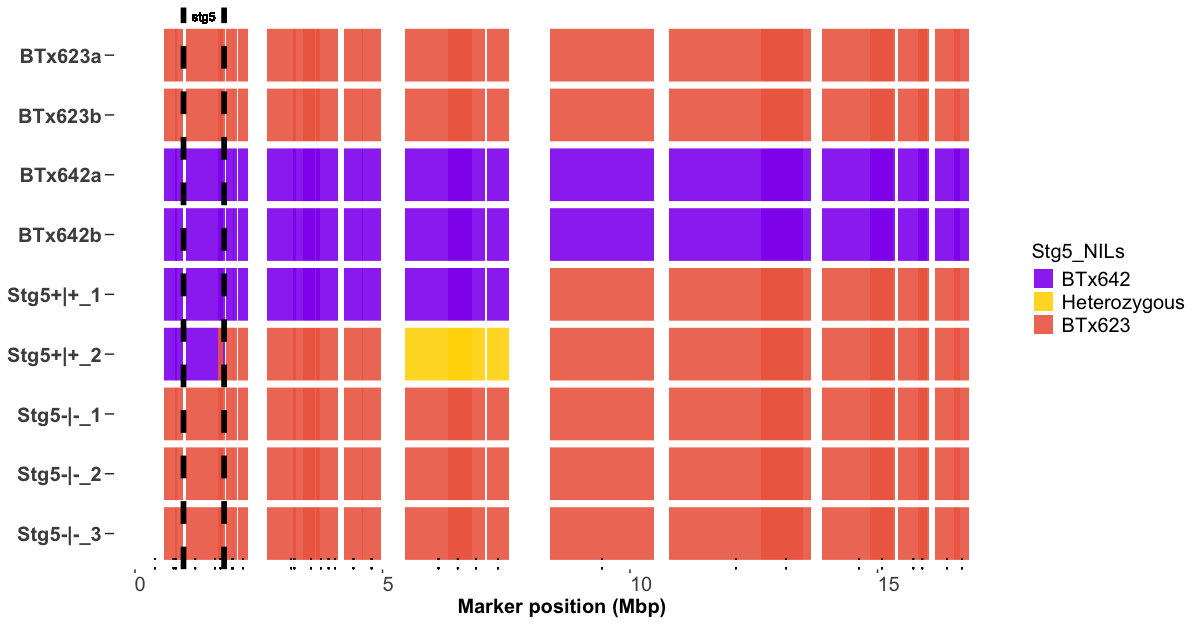
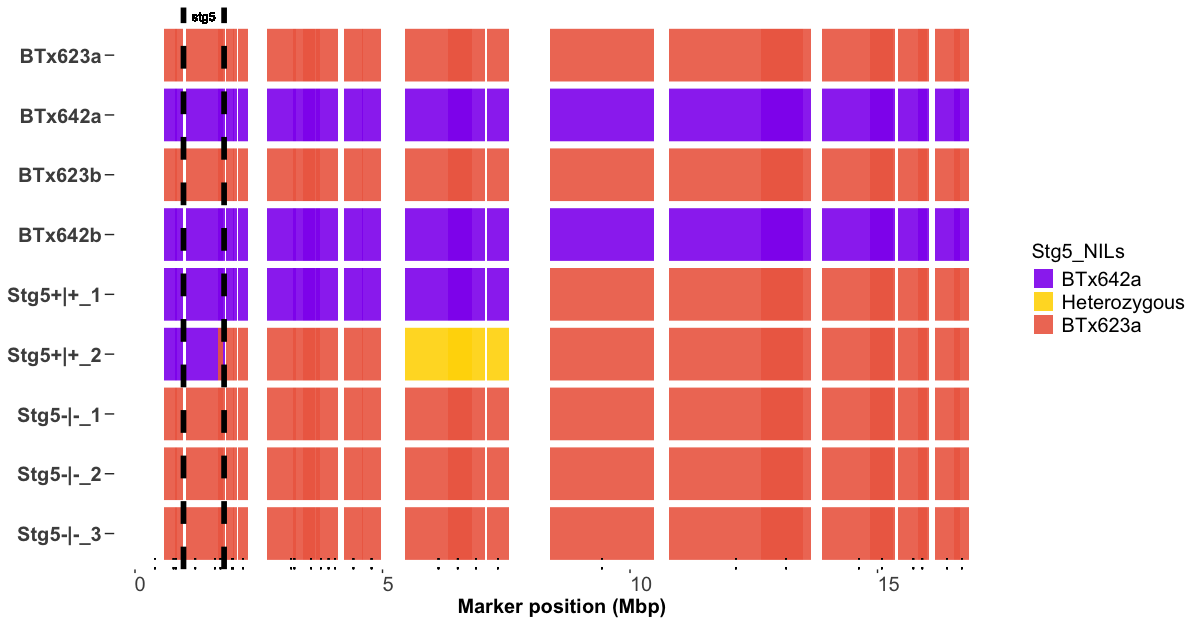
kasp_function updates

diff --git a/README.md b/README.md
@@ -411,7 +411,7 @@ alignment should be saved – default is a temporary directory.
 |:--:|
 | *Fig. 2. Alignment of the 100 bp upstream and downstream sequences to the reference genome used for KASP marker design.* |
 
-The required sequence for submission to Intertek for the designed KASp
+The required sequence for submission to Intertek for the designed KASP
 marker is shown in Table 2.
 
 <table>
@@ -1229,6 +1229,9 @@ stg5 <- rm_mono(stg5)
 # Parse snp ids to generate a map file
 snps <- colnames(stg5) # Get snp ids
 map_file <- parse_marker_ns(x = snps, sep = '_', prefix = 'S')
+
+# order markers in map file
+map_file <- order_markers(x = map_file)
 ```
 
 <table>
@@ -1237,6 +1240,8 @@ Table 5: Map file for the imported Agriplex data.
 </caption>
 <thead>
 <tr>
+<th style="text-align:left;">
+</th>
 <th style="text-align:left;">
 snpid
 </th>
@@ -1251,6 +1256,23 @@ pos
 <tbody>
 <tr>
 <td style="text-align:left;">
+1.317
+</td>
+<td style="text-align:left;">
+S1_402592
+</td>
+<td style="text-align:right;">
+1
+</td>
+<td style="text-align:right;">
+402592
+</td>
+</tr>
+<tr>
+<td style="text-align:left;">
+1.1
+</td>
+<td style="text-align:left;">
 S1_778962
 </td>
 <td style="text-align:right;">
@@ -1261,6 +1283,37 @@ S1_778962
 </td>
 </tr>
 <tr>
+<td style="text-align:left;">
+1.633
+</td>
+<td style="text-align:left;">
+S1_825853
+</td>
+<td style="text-align:right;">
+1
+</td>
+<td style="text-align:right;">
+825853
+</td>
+</tr>
+<tr>
+<td style="text-align:left;">
+1.318
+</td>
+<td style="text-align:left;">
+S1_1218846
+</td>
+<td style="text-align:right;">
+1
+</td>
+<td style="text-align:right;">
+1218846
+</td>
+</tr>
+<tr>
+<td style="text-align:left;">
+1.2
+</td>
 <td style="text-align:left;">
 S1_1613105
 </td>
@@ -1273,6 +1326,23 @@ S1_1613105
 </tr>
 <tr>
 <td style="text-align:left;">
+1.319
+</td>
+<td style="text-align:left;">
+S1_1727150
+</td>
+<td style="text-align:right;">
+1
+</td>
+<td style="text-align:right;">
+1727150
+</td>
+</tr>
+<tr>
+<td style="text-align:left;">
+1.3
+</td>
+<td style="text-align:left;">
 S1_1954298
 </td>
 <td style="text-align:right;">
@@ -1284,6 +1354,9 @@ S1_1954298
 </tr>
 <tr>
 <td style="text-align:left;">
+1.4
+</td>
+<td style="text-align:left;">
 S1_1985365
 </td>
 <td style="text-align:right;">
@@ -1291,50 +1364,6 @@ S1_1985365
 </td>
 <td style="text-align:right;">
 1985365
-</td>
-</tr>
-<tr>
-<td style="text-align:left;">
-S1_3751888
-</td>
-<td style="text-align:right;">
-1
-</td>
-<td style="text-align:right;">
-3751888
-</td>
-</tr>
-<tr>
-<td style="text-align:left;">
-S1_13156348
-</td>
-<td style="text-align:right;">
-1
-</td>
-<td style="text-align:right;">
-13156348
-</td>
-</tr>
-<tr>
-<td style="text-align:left;">
-S1_15905614
-</td>
-<td style="text-align:right;">
-1
-</td>
-<td style="text-align:right;">
-15905614
-</td>
-</tr>
-<tr>
-<td style="text-align:left;">
-S1_18104582
-</td>
-<td style="text-align:right;">
-1
-</td>
-<td style="text-align:right;">
-18104582
 </td>
 </tr>
 </tbody>
@@ -1350,11 +1379,8 @@ stg5 <- proc_kasp(x = stg5,
                   chr = 'chr',
                   chr_pos = 'pos')
 
-map_file_ord <- stg5$ordered_map # Ordered map
-stg5_ord <- stg5$ordered_geno # ordered geno
-
 # Convert to numeric format for plotting
-num_geno <- kasp_numeric(x = stg5_ord,
+num_geno <- kasp_numeric(x = stg5,
                          rp_row = 1,
                          dp_row = 3,
                          sep = ' / ',
@@ -1669,12 +1695,11 @@ All is now set to generate the heatmap (Figure 6) using the
 library(panGenomeBreedr)
 # Create a heatmap that compares the parents to progenies
 cross_qc_ggplot(x = num_geno,
-                map_file = map_file_ord,
+                map_file = map_file,
                 snp_ids = 'snpid',
                 chr = 'chr',
                 chr_pos = 'pos',
-                parents = c("BTx623", "BTx642"),
-                group_sz = 5L,
+                parents = c("BTx623a", "BTx642a"),
                 pdf = FALSE,
                 filename = 'background_heatmap',
                 legend_title = 'stg5_NILs',
@@ -1717,10 +1742,10 @@ shown below:
 
 ###########################################################################
 # Subset data for the first 30 markers on Chr 1
-stg5_ch1 <- num_geno[, map_file_ord$chr == 1][,1:30] 
+stg5_ch1 <- num_geno[, map_file$chr == 1][,1:30] 
 
 # Get the map file for subset data
-stg5_ch1_map <- map_file_ord[map_file_ord$chr == 1,][1:30,]
+stg5_ch1_map <- parse_marker_ns(colnames(stg5_ch1))
 
 # Annotate a heatmap to show the stg5 locus on Chr 1
 # The locus is between positions 0.98 - 1.8 Mbp on Chr 1
@@ -1729,10 +1754,9 @@ cross_qc_annotate(x = stg5_ch1,
                   snp_ids = 'snpid',
                   chr = 'chr',
                   chr_pos = 'pos',
-                  parents = c("BTx623", "BTx642"),
+                  parents = c("BTx623a", "BTx642a"),
                   trait_pos = list(stg5 = c(start = .98e6, end = 1.8e6)),
                   text_scale_fct = 0.3,
-                  group_sz = 5L,
                   pdf = FALSE,
                   legend_title = 'Stg5_NILs',
                   alpha = 0.9,
@@ -1788,7 +1812,7 @@ across all polymorphic loci as shown in the code snippet below:
 
 # Calculate weighted RPP
 rpp <- calc_rpp_bc(x = num_geno,
-                   map_file = map_file_ord,
+                   map_file = map_file,
                    map_chr = 'chr',
                    map_pos = 'pos',
                    map_snp_ids = 'snpid',
